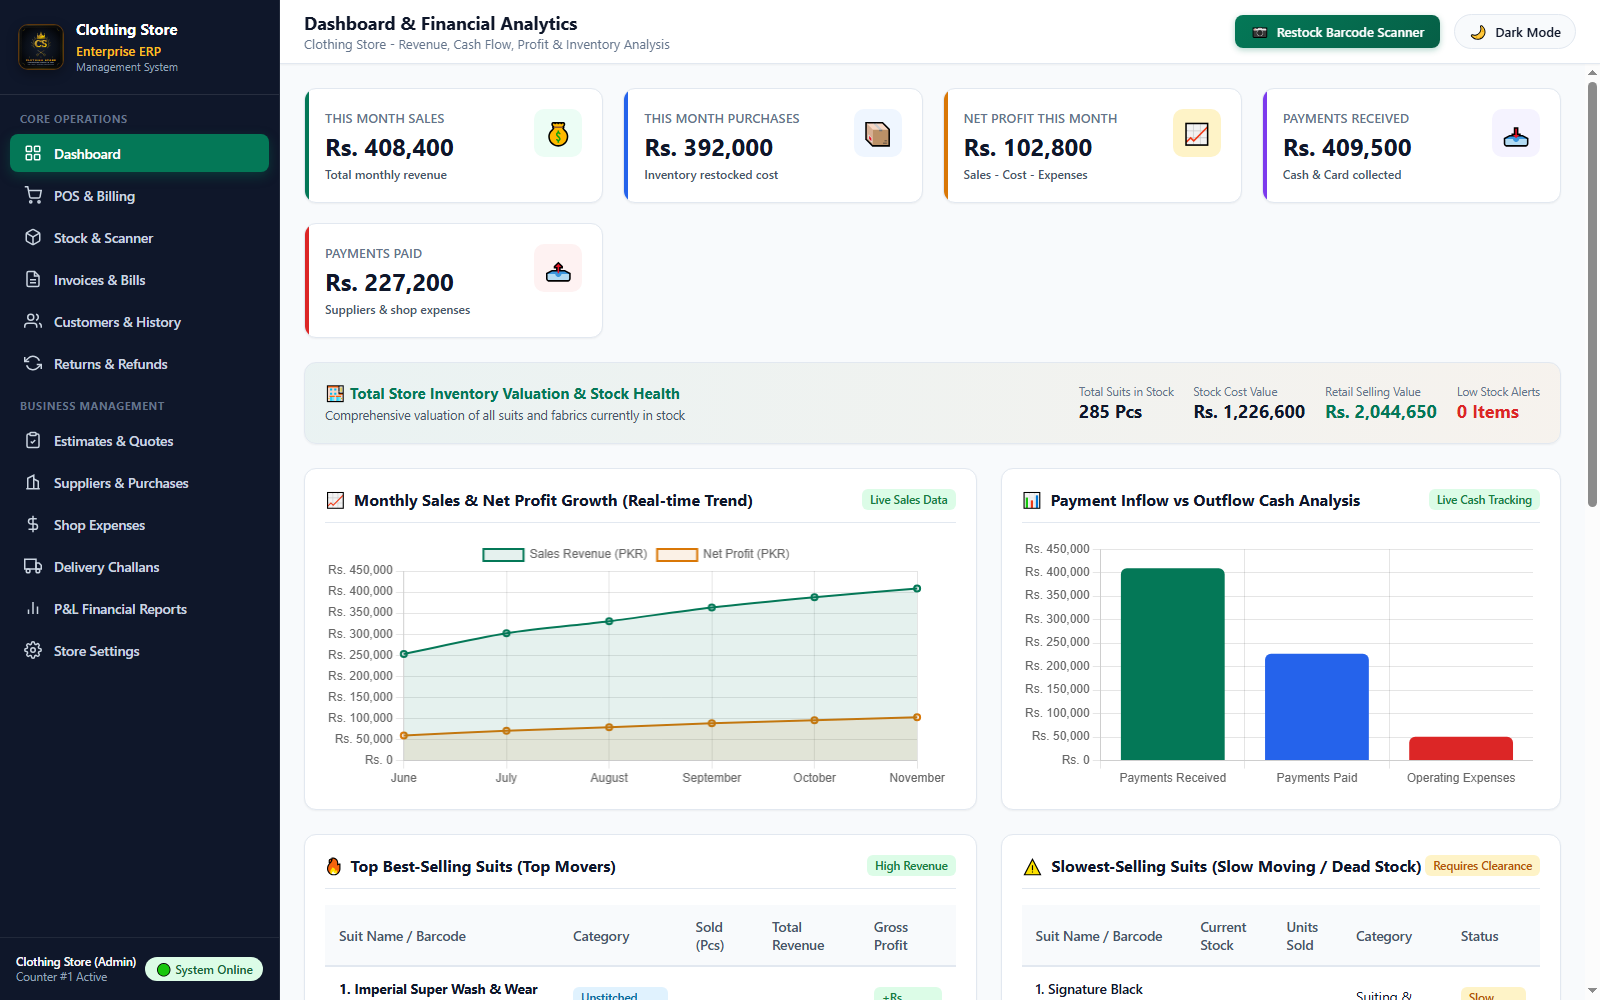
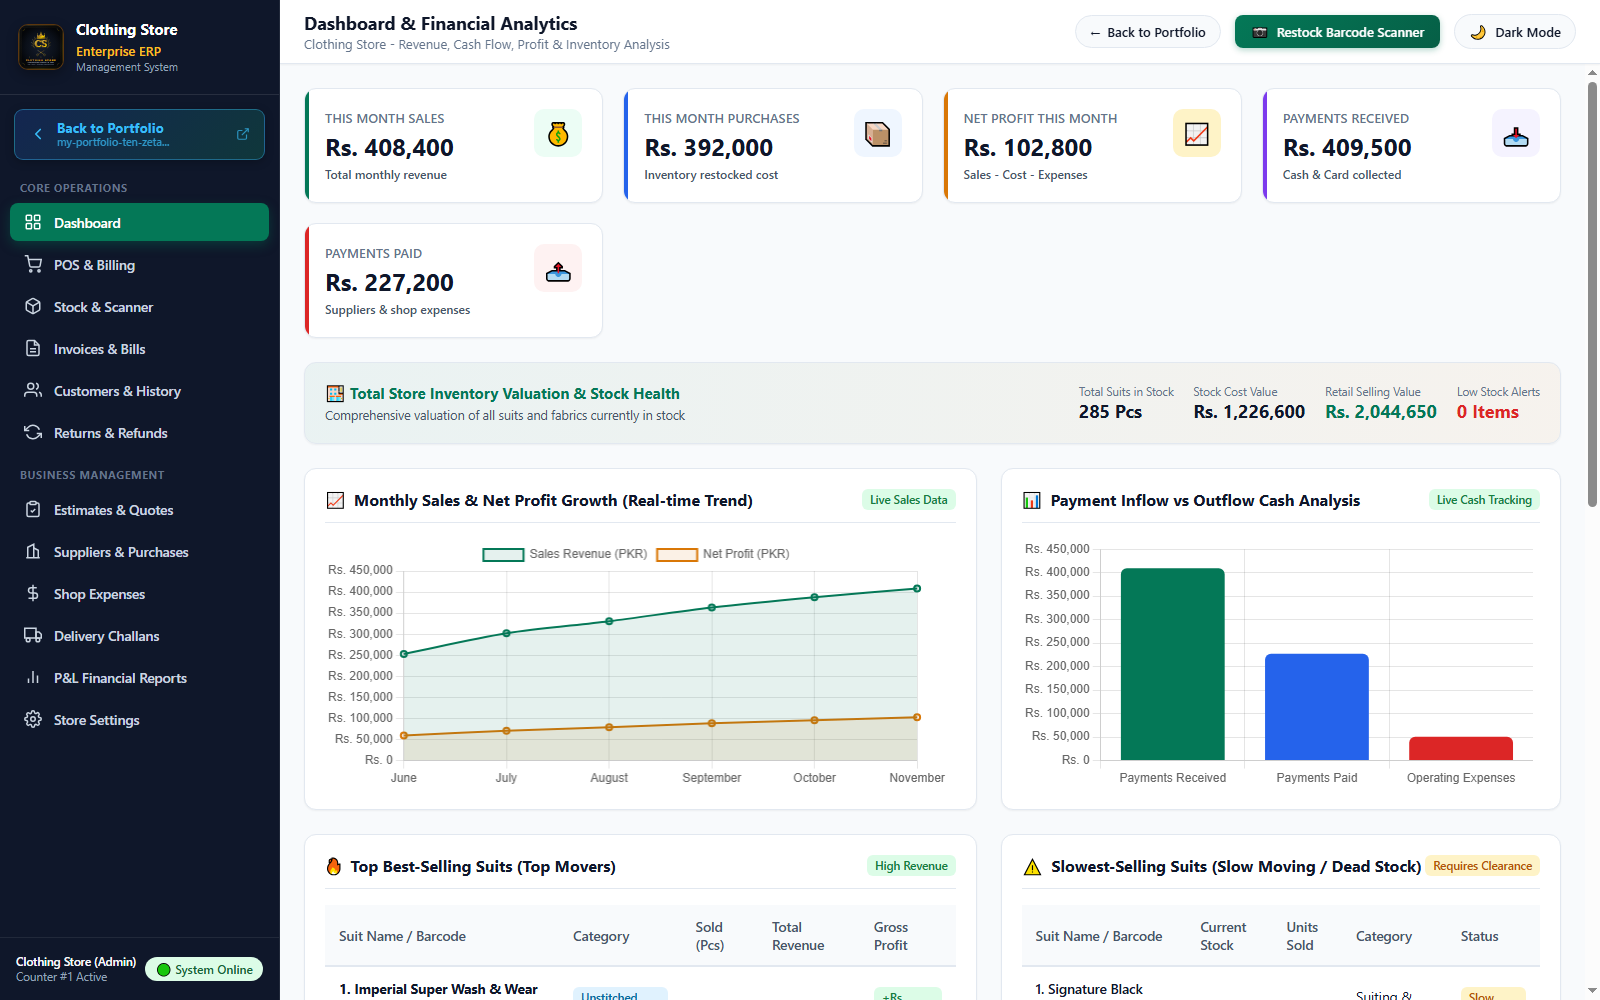
Add Back to Portfolio button in sidebar and topbar linking to my-portfolio-ten-zeta-3wnea5nse7.vercel.app

Changed region(s): [[0.0, 0.093, 0.1875, 0.682], [0.6875, 0.031, 0.75, 0.062], [0.0312, 0.713, 0.0938, 0.744]]

diff --git a/public/index.html b/public/index.html
@@ -24,6 +24,20 @@
         </div>
       </div>
 
+      <!-- Back to Portfolio Action Button -->
+      <div style="padding: 14px 14px 4px 14px;">
+        <a href="https://my-portfolio-ten-zeta-3wnea5nse7.vercel.app/" target="_blank" rel="noopener noreferrer" class="portfolio-back-btn" title="Return to Portfolio">
+          <svg class="portfolio-back-icon" viewBox="0 0 24 24" fill="none" stroke="currentColor" stroke-width="2.2" stroke-linecap="round" stroke-linejoin="round">
+            <polyline points="15 18 9 12 15 6"></polyline>
+          </svg>
+          <span style="display: flex; flex-direction: column; line-height: 1.25;">
+            <span style="font-size: 13px; font-weight: 700; letter-spacing: 0.2px;">Back to Portfolio</span>
+            <span style="font-size: 10.5px; opacity: 0.75; font-weight: 500;">my-portfolio-ten-zeta...</span>
+          </span>
+          <svg style="margin-left: auto; opacity: 0.7;" width="14" height="14" viewBox="0 0 24 24" fill="none" stroke="currentColor" stroke-width="2"><path d="M18 13v6a2 2 0 0 1-2 2H5a2 2 0 0 1-2-2V8a2 2 0 0 1 2-2h6"></path><polyline points="15 3 21 3 21 9"></polyline><line x1="10" y1="14" x2="21" y2="3"></line></svg>
+        </a>
+      </div>
+
       <div class="nav-section-title">Core Operations</div>
       <ul class="nav-links">
         <li class="nav-item active" data-tab="dashboard">
@@ -102,6 +116,12 @@
         </div>
 
         <div class="topbar-right">
+          <!-- Back to Portfolio Link -->
+          <a href="https://my-portfolio-ten-zeta-3wnea5nse7.vercel.app/" target="_blank" rel="noopener noreferrer" class="topbar-portfolio-btn" title="Back to Portfolio">
+            <span>←</span>
+            <span>Back to Portfolio</span>
+          </a>
+
           <!-- Quick Restock Scanner Trigger -->
           <button class="scanner-quick-btn" onclick="openRestockModal()">
             <span>📷</span>

diff --git a/static/index.html b/static/index.html
@@ -24,6 +24,20 @@
         </div>
       </div>
 
+      <!-- Back to Portfolio Action Button -->
+      <div style="padding: 14px 14px 4px 14px;">
+        <a href="https://my-portfolio-ten-zeta-3wnea5nse7.vercel.app/" target="_blank" rel="noopener noreferrer" class="portfolio-back-btn" title="Return to Portfolio">
+          <svg class="portfolio-back-icon" viewBox="0 0 24 24" fill="none" stroke="currentColor" stroke-width="2.2" stroke-linecap="round" stroke-linejoin="round">
+            <polyline points="15 18 9 12 15 6"></polyline>
+          </svg>
+          <span style="display: flex; flex-direction: column; line-height: 1.25;">
+            <span style="font-size: 13px; font-weight: 700; letter-spacing: 0.2px;">Back to Portfolio</span>
+            <span style="font-size: 10.5px; opacity: 0.75; font-weight: 500;">my-portfolio-ten-zeta...</span>
+          </span>
+          <svg style="margin-left: auto; opacity: 0.7;" width="14" height="14" viewBox="0 0 24 24" fill="none" stroke="currentColor" stroke-width="2"><path d="M18 13v6a2 2 0 0 1-2 2H5a2 2 0 0 1-2-2V8a2 2 0 0 1 2-2h6"></path><polyline points="15 3 21 3 21 9"></polyline><line x1="10" y1="14" x2="21" y2="3"></line></svg>
+        </a>
+      </div>
+
       <div class="nav-section-title">Core Operations</div>
       <ul class="nav-links">
         <li class="nav-item active" data-tab="dashboard">
@@ -102,6 +116,12 @@
         </div>
 
         <div class="topbar-right">
+          <!-- Back to Portfolio Link -->
+          <a href="https://my-portfolio-ten-zeta-3wnea5nse7.vercel.app/" target="_blank" rel="noopener noreferrer" class="topbar-portfolio-btn" title="Back to Portfolio">
+            <span>←</span>
+            <span>Back to Portfolio</span>
+          </a>
+
           <!-- Quick Restock Scanner Trigger -->
           <button class="scanner-quick-btn" onclick="openRestockModal()">
             <span>📷</span>

diff --git a/public/styles.css b/public/styles.css
@@ -281,6 +281,67 @@ body {
   gap: 14px;
 }
 
+/* Back to Portfolio Buttons */
+.portfolio-back-btn {
+  display: flex;
+  align-items: center;
+  gap: 10px;
+  background: linear-gradient(135deg, rgba(37, 99, 235, 0.2) 0%, rgba(16, 185, 129, 0.2) 100%);
+  border: 1px solid rgba(56, 189, 248, 0.4);
+  color: #38bdf8;
+  padding: 10px 14px;
+  border-radius: 9px;
+  text-decoration: none;
+  font-family: inherit;
+  transition: all 0.25s cubic-bezier(0.4, 0, 0.2, 1);
+  box-shadow: 0 2px 8px rgba(0, 0, 0, 0.25);
+  box-sizing: border-box;
+  width: 100%;
+}
+
+.portfolio-back-btn:hover {
+  background: linear-gradient(135deg, rgba(37, 99, 235, 0.35) 0%, rgba(16, 185, 129, 0.35) 100%);
+  border-color: #38bdf8;
+  color: #ffffff;
+  transform: translateY(-1.5px);
+  box-shadow: 0 4px 14px rgba(56, 189, 248, 0.35);
+}
+
+.portfolio-back-icon {
+  width: 18px;
+  height: 18px;
+  flex-shrink: 0;
+  transition: transform 0.2s ease;
+}
+
+.portfolio-back-btn:hover .portfolio-back-icon {
+  transform: translateX(-3px);
+}
+
+.topbar-portfolio-btn {
+  display: inline-flex;
+  align-items: center;
+  gap: 6px;
+  padding: 7px 14px;
+  background: var(--bg-primary);
+  border: 1px solid var(--border-color);
+  border-radius: 20px;
+  color: var(--text-primary);
+  font-size: 13px;
+  font-weight: 600;
+  text-decoration: none;
+  transition: all 0.2s ease;
+  cursor: pointer;
+}
+
+.topbar-portfolio-btn:hover {
+  background: var(--brand-primary);
+  color: #ffffff;
+  border-color: var(--brand-primary);
+  transform: translateY(-1px);
+  box-shadow: 0 2px 8px rgba(4, 120, 87, 0.25);
+}
+
 /* Theme Toggle Button */
 .theme-toggle-btn {
   background-color: var(--bg-primary);

diff --git a/static/styles.css b/static/styles.css
@@ -281,6 +281,67 @@ body {
   gap: 14px;
 }
 
+/* Back to Portfolio Buttons */
+.portfolio-back-btn {
+  display: flex;
+  align-items: center;
+  gap: 10px;
+  background: linear-gradient(135deg, rgba(37, 99, 235, 0.2) 0%, rgba(16, 185, 129, 0.2) 100%);
+  border: 1px solid rgba(56, 189, 248, 0.4);
+  color: #38bdf8;
+  padding: 10px 14px;
+  border-radius: 9px;
+  text-decoration: none;
+  font-family: inherit;
+  transition: all 0.25s cubic-bezier(0.4, 0, 0.2, 1);
+  box-shadow: 0 2px 8px rgba(0, 0, 0, 0.25);
+  box-sizing: border-box;
+  width: 100%;
+}
+
+.portfolio-back-btn:hover {
+  background: linear-gradient(135deg, rgba(37, 99, 235, 0.35) 0%, rgba(16, 185, 129, 0.35) 100%);
+  border-color: #38bdf8;
+  color: #ffffff;
+  transform: translateY(-1.5px);
+  box-shadow: 0 4px 14px rgba(56, 189, 248, 0.35);
+}
+
+.portfolio-back-icon {
+  width: 18px;
+  height: 18px;
+  flex-shrink: 0;
+  transition: transform 0.2s ease;
+}
+
+.portfolio-back-btn:hover .portfolio-back-icon {
+  transform: translateX(-3px);
+}
+
+.topbar-portfolio-btn {
+  display: inline-flex;
+  align-items: center;
+  gap: 6px;
+  padding: 7px 14px;
+  background: var(--bg-primary);
+  border: 1px solid var(--border-color);
+  border-radius: 20px;
+  color: var(--text-primary);
+  font-size: 13px;
+  font-weight: 600;
+  text-decoration: none;
+  transition: all 0.2s ease;
+  cursor: pointer;
+}
+
+.topbar-portfolio-btn:hover {
+  background: var(--brand-primary);
+  color: #ffffff;
+  border-color: var(--brand-primary);
+  transform: translateY(-1px);
+  box-shadow: 0 2px 8px rgba(4, 120, 87, 0.25);
+}
+
 /* Theme Toggle Button */
 .theme-toggle-btn {
   background-color: var(--bg-primary);
